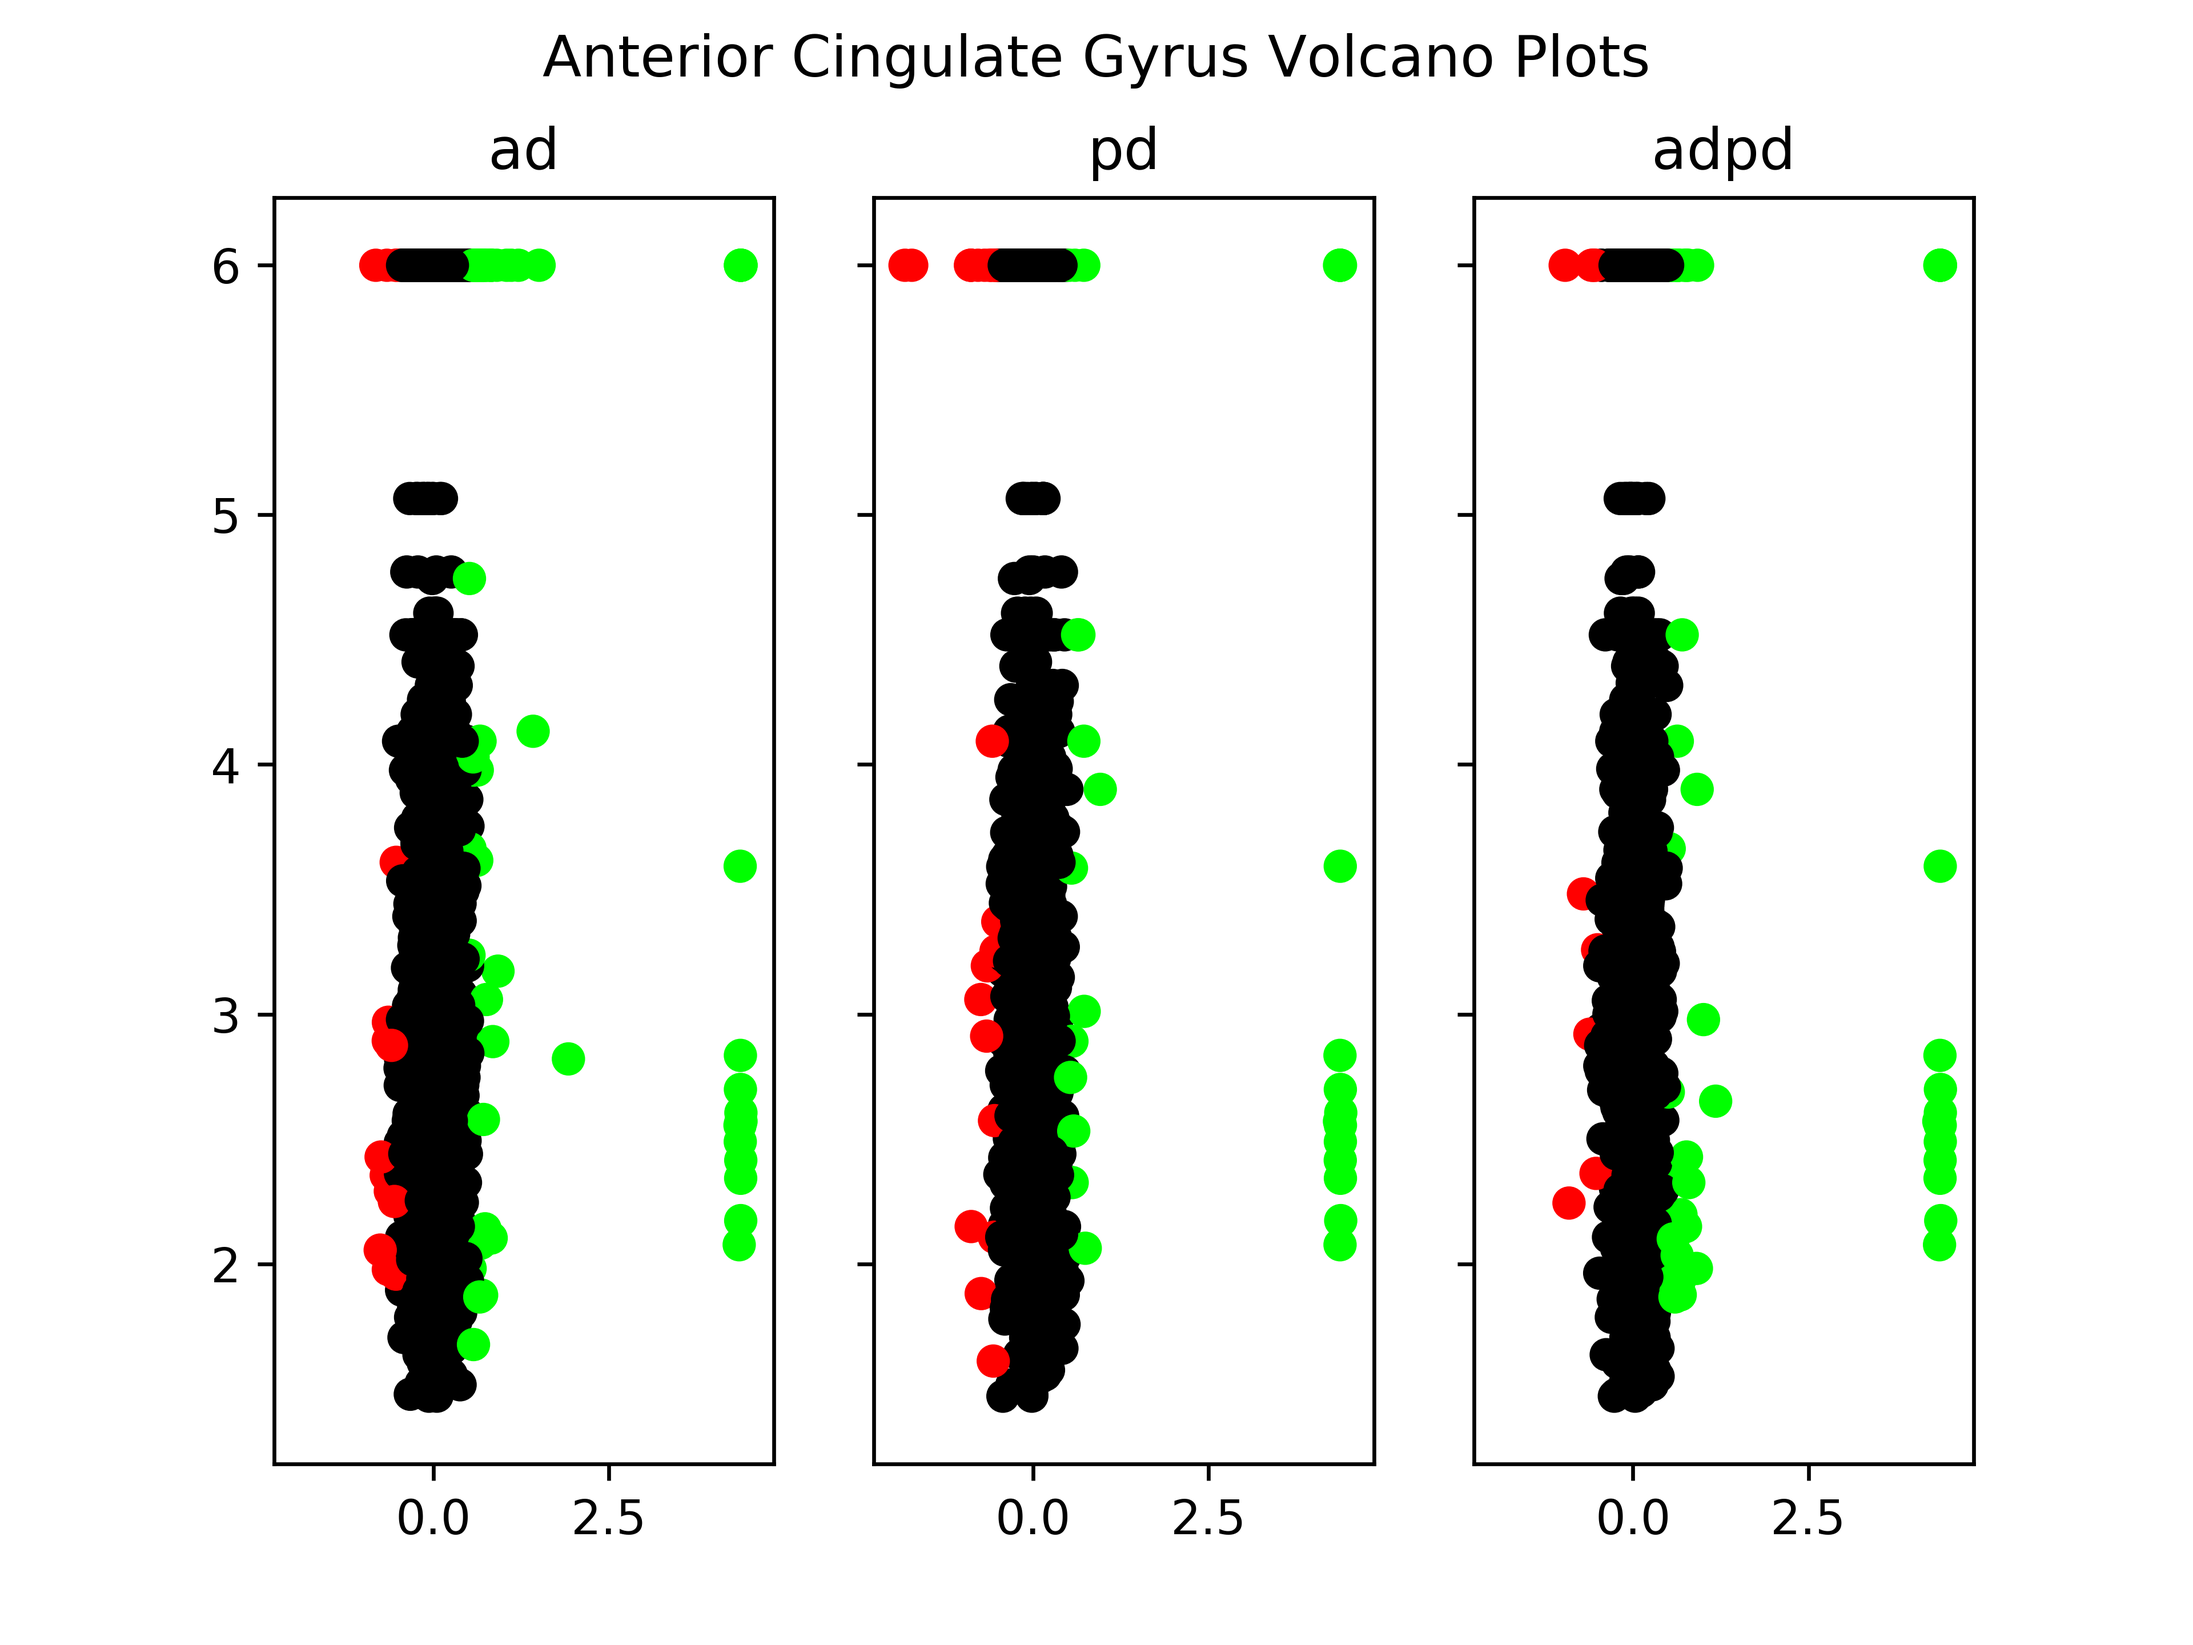
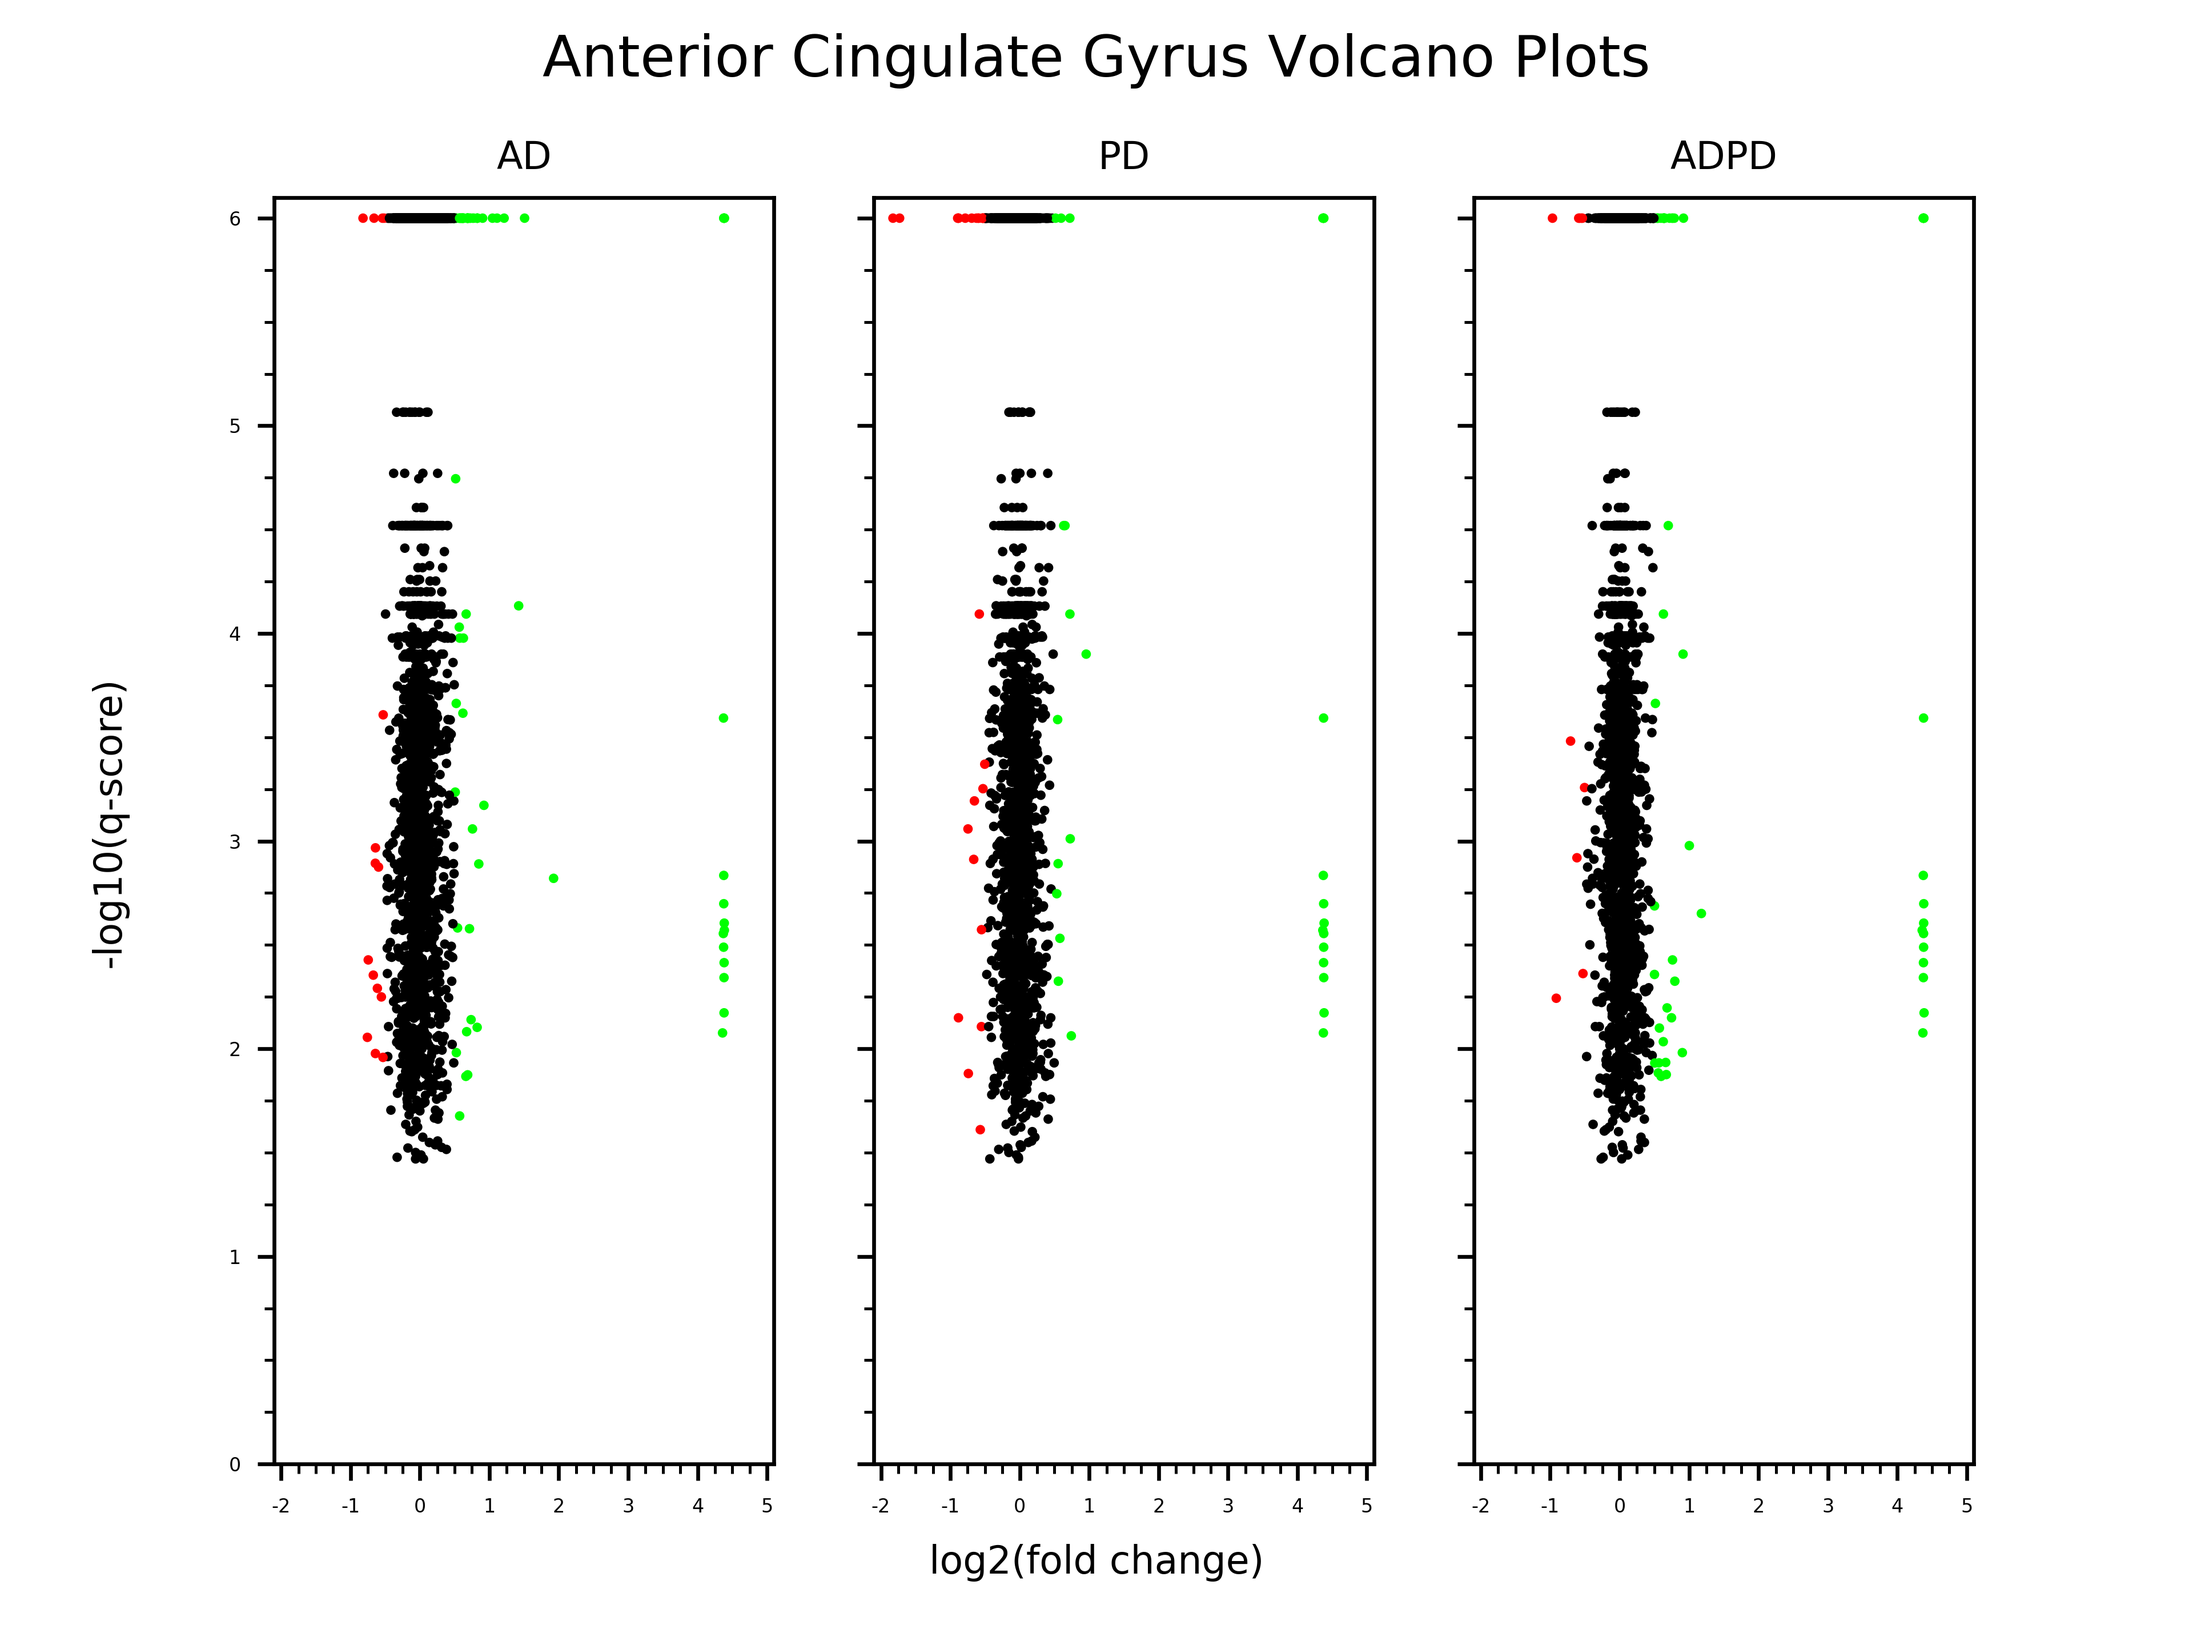
Finetune plots for volcano plots

diff --git a/src/visualization/pre_visualize.py b/src/visualization/pre_visualize.py
@@ -57,6 +57,7 @@ if __name__ == "__main__":
             axis=1,
         ).mean(axis=1)
     )
+    pd.to_pickle(frontal_volc, 'data/interim/frontal_volcano.pkl')
 
     #Prep for volcano plot - cingulate
     cingulate_volc = pd.DataFrame()
@@ -91,6 +92,7 @@ if __name__ == "__main__":
             axis=1,
         ).mean(axis=1)
     )
+    pd.to_pickle(cingulate_volc, 'data/interim/cingulate_volcano.pkl')
 
     # Create red, black green custom color map
     cmap = LinearSegmentedColormap.from_list('Volcano', [(1, 0, 0), (0, 0, 0), (0, 1, 0)], N=3)
@@ -102,12 +104,22 @@ if __name__ == "__main__":
     for df in (frontal_volc, cingulate_volc):
         fig, ax = plt.subplots(nrows=1, ncols=3, sharex=True, sharey=True)
         fig.suptitle(df.name)
+        fig.text(0.5, 0.05, 'log2(fold change)', ha='center', va='center', fontsize=8)
+        fig.text(0.05, 0.5, '-log10(q-score)', ha='center', va='center', rotation='vertical', fontsize=8)
         for items in zip(cols_data, cols_color, ax):
             # Creates color column
             conditions = [(df['-log10_q'] >= 1.30103) & (df[items[0]] >= 0.5), (df['-log10_q'] >= 1.30103) & (df[items[0]] <= -0.5)]
             df[items[1]] = np.select(conditions, choices, default=1)
             # Creates volcano plots
-            items[2].scatter(df[items[0]], df['-log10_q'], c=df[items[1]], cmap=cmap)
-            items[2].set_title(items[0].split('_')[1])
+            items[2].scatter(df[items[0]], df['-log10_q'], c=df[items[1]], cmap=cmap, s=1)
+            items[2].set_title(items[0].split('_')[1].upper(), fontsize=8)
+            items[2].set_xbound(lower=-2.1, upper=5.1)
+            items[2].set_xticks(np.arange(-2, 5.1, 1), minor=False)
+            items[2].set_xticks(np.arange(-2, 5.1, 0.25), minor=True)
+            items[2].set_xticklabels([-2, -1, 0, 1, 2, 3, 4, 5], fontsize=4)
+            items[2].set_ybound(lower=0, upper=6.1)
+            items[2].set_yticks(np.arange(0, 6.1, 1), minor=False)
+            items[2].set_yticks(np.arange(0, 6.1, 0.25), minor=True)
+            items[2].set_yticklabels([0, 1, 2, 3, 4, 5, 6], fontsize=4)
         plt.savefig(f'reports/figures/{df.name}.png', dpi=600)
         plt.close()
